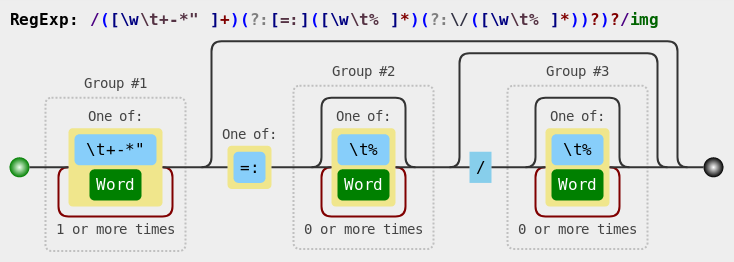
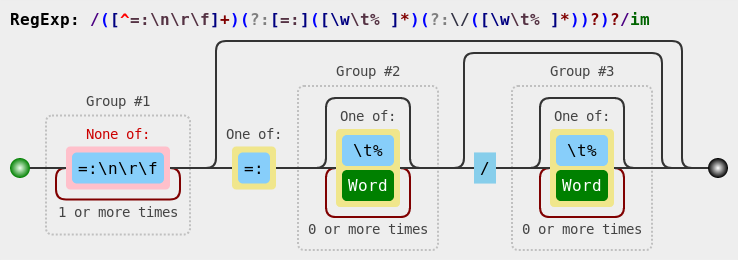
refactor (versum/annotation) & feat (dcc/timer)

Changed region(s): [[0.0, 0.0308, 0.9891, 0.9846], [0.0899, 0.2769, 0.2098, 0.3385], [0.0599, 0.9538, 0.2398, 0.9846]]

diff --git a/versum/reference.md b/versum/reference.md
@@ -187,7 +187,7 @@ Patient ... :chest pain:+: ... :pain in the chest(chest pain):+:
 
 ## Annotation
 
-Elements from the narrative and user inputs are annotated and connected to structured data and knowledge representation systems. We will use this term to refer generically to controlled vocabularies, taxonomies, thesaurus, ontologies, etc. An example of a knowledge representation system is [MeSH](https://www.nlm.nih.gov/mesh/meshhome.html) - Medical Subject Headings.
+Elements from the narrative and user inputs are annotated and connected to structured data and knowledge organization systems. We will use the acronym KOS (Knowledge Organization System) to refer generically to controlled vocabularies, taxonomies, thesaurus, ontologies, etc. An example of a KOS is [MeSH](https://www.nlm.nih.gov/mesh/meshhome.html) - Medical Subject Headings.
 
 Segments between braces are annotated. 
 
@@ -197,16 +197,18 @@ For example, the following narrative present symptoms of a patient:
 Some key characteristics and symptoms of the patient were annotated:
 > Patient a {man} {55 years old}; rather fat; subject to frequent attacks of {winter cough}, with {asthmatic} tendency.
 
-Whenever a segment is annotated, the translator tries to automatically relate it to a knowledge representation system.
+Whenever a segment is annotated, the translator tries to automatically relate it to a KOS.
 
 It is possible to attach literal or formal annotations to the annotated terms. They come between parenthesis after the annotated term and are not presented when the text is rendered. Literal annotations are written in quotes, as follows:
 > Patient a {man} {55 years old}("the age is important in this case"); rather fat; subject to frequent attacks of {winter cough}("it was winter when he came"), with {asthmatic} tendency.
 
-Formal annotations do not come in quotes. They are meant to be interpreted by machines, therefore, they must be connected to a knowledge representation system. A usual application is when an annotated term cannot be automatically related to a knowledge representation system. In this case, an equivalent formal term is presented between parenthesis beside the term. The following text has annotated terms, which are aligned to a medical knowledge basis.
+Formal annotations do not come in quotes. They are meant to be interpreted by machines, therefore, they must be connected to a KOS. A usual application is when an annotated term cannot be automatically related to a KOS. In this case, an equivalent formal term is presented between parenthesis beside the term. The following text has annotated terms, which are aligned to a medical knowledge basis.
 
 > Patient a {man}(male) {55 years old}(aging=51); rather fat; subject to frequent attacks of winter {cough}, with {asthmatic}(asthma) tendency.
 
-Annotations can be seen as the connection of segments to the Data-driven Layer. This layer is designed to be consumed by machines to support the automation of tasks as evaluation and feedback. This Data-driven Layer also defines how segments are associated with external knowledge representation systems as MeSH. It can define global associations or they can be guided by an annotation context, detailed in the next section.
+Annotations can be seen as the connection of segments to the Data-driven Layer. This layer is designed to be consumed by machines to support the automation of tasks as evaluation and feedback. This Data-driven Layer also defines how segments are associated with external KOSs as MeSH. It can define global associations or they can be guided by an annotation context, detailed in the next section.
+
+One can intentionally associate a specific annotation to a KOS, preceding the annotation with the namespace of the respective KOS.
 
 ## Annotation Context
 A block of annotation context can be defined between double braces. The block defines a semantic context for the narrative and the respective annotations. The context guides the interpretation of parts of the narrative. The following example presents a `symptoms` annotation context.

diff --git a/dccs/README.md b/dccs/README.md
@@ -132,8 +132,7 @@ A DCC can subscribe to message in such a way that whenever the message appears o
 For each subscribed message a DCC declares a `<subscribe-dcc>` inside its element. With the following syntax:
 
 ~~~html
-<subscribe-dcc message="message">
-</subscribe>
+<subscribe-dcc message="message"/>
 ~~~
 
 * message - specifies the subscribed message
@@ -148,7 +147,7 @@ The following example shows the message `I am a doctor.` when the button with th
                  duration="0s"
                  character="doctor"
                  speech="Hello, ">
-  <subscribe-dcc message="send/message"></subscribe>
+  <subscribe-dcc message="send/message"/>
 </dcc-lively-talk>
 ~~~
 
@@ -161,7 +160,7 @@ The following example shows a character that tells you "Hello *your name*" when 
                  duration="0s"
                  character="doctor"
                  speech="Hello ">
-  <subscribe-dcc message="var/name/changed"></subscribe>
+  <subscribe-dcc message="var/name/changed"/>
 </dcc-lively-talk>
 ~~~
 
@@ -174,7 +173,7 @@ Or how a character tells you "Your age is *your age*" when you define your age i
                  duration="0s"
                  character="doctor"
                  speech="Your age is  ">
-  <subscribe-dcc message="var/age/changed"></subscribe>
+  <subscribe-dcc message="var/age/changed"/>
 </dcc-lively-talk>
 ~~~
 
@@ -214,19 +213,19 @@ The following example show messages selectively displayed.
 <dcc-lively-talk duration="0s"
                  character="doctor"
                  speech="I heard about a ">
-  <subscribe-dcc message="news/#"></subscribe>
+  <subscribe-dcc message="news/#"/>
 </dcc-lively-talk>
 
 <dcc-lively-talk duration="0s"
                  character="nurse"
                  speech="I heard about a ">
-  <subscribe-dcc message="news/disease"></subscribe>
+  <subscribe-dcc message="news/disease"/>
 </dcc-lively-talk>
 
 <dcc-lively-talk duration="0s"
                  character="patient"
                  speech="I heard about a ">
-  <subscribe-dcc message="news/soccer"></subscribe>
+  <subscribe-dcc message="news/soccer"/>
 </dcc-lively-talk>
 ~~~
 
@@ -241,4 +240,22 @@ The following example show messages selectively displayed.
 
 <dcc-notice-input itype="input" text="Type your name:">
 </dcc-notice-input>
+~~~
+
+## Timer
+
+~~~html
+<dcc-trigger label="Start" action="timer/start">
+</dcc-trigger>
+
+<dcc-timer cycles="10" interval="1000" publish="send/cycle">
+   <subscribe-dcc message="timer/start" role="start"/>
+</dcc-timer>
+
+<dcc-lively-talk id="doctor"
+                 duration="0s"
+                 character="doctor"
+                 speech="Counting: ">
+  <subscribe-dcc message="send/cycle"/>
+</dcc-lively-talk>
 ~~~

diff --git a/versum/syntax.md b/versum/syntax.md
@@ -82,14 +82,14 @@ or
 ```
 
 ## Annotation
-* Sentence outside: `{ [natural] ([formal]) } / [context value] /`
-* Expression outside: `\{([^\(\{\}\/]+)\}(?:\(([^\)]+)\))?(?:\/([^\/]+)\/)?`
+* Sentence outside: `{ [natural] } ([formal])`
+* Expression outside: `\{([^\}\n\r\f]+)\}(?:\(([^\)\n\r\f]+)\))?`
   * Group #1: natural
   * Group #2: formal
   * Group #3: context value (intended for evaluations based on selects)
 ![Annotation Outside](expressions/annotation-outside.png)
 * Sentence inside: `[expression] =|: [specification] / [rate]`
-* Expression inside: `([\w \t\+\-\*"]+)(?:[=\:]([\w \t%]*)(?:\/([\w \t%]*))?)?`
+* Expression inside: `([^=\:\n\r\f]+)(?:[=\:]([\w \t%]*)(?:\/([\w \t%]*))?)?`
   * Group #1: expression
   * Group #2: specification
   * Group #3: rate
@@ -441,8 +441,8 @@ no HTML
 ```
 
 ## Select
-* Sentence: `{ [natural] ([formal]) } / [context value] /`
-* Expression: `\{([^\(\{\}\/]+)\}(?:\(([^\)]+)\))?(?:\/([^\/]+)\/)`
+* Sentence: `{ [natural] } ([formal]) / [context value] /`
+* Expression: `\{([^\}\n\r\f]+)\}(?:\(([^\)\n\r\f]+)\))?(?:\/([^\/\n\r\f]+)\/)`
   * Group #1: natural
   * Group #2: formal (extracted in an annotation)
   * Group #3: context value
